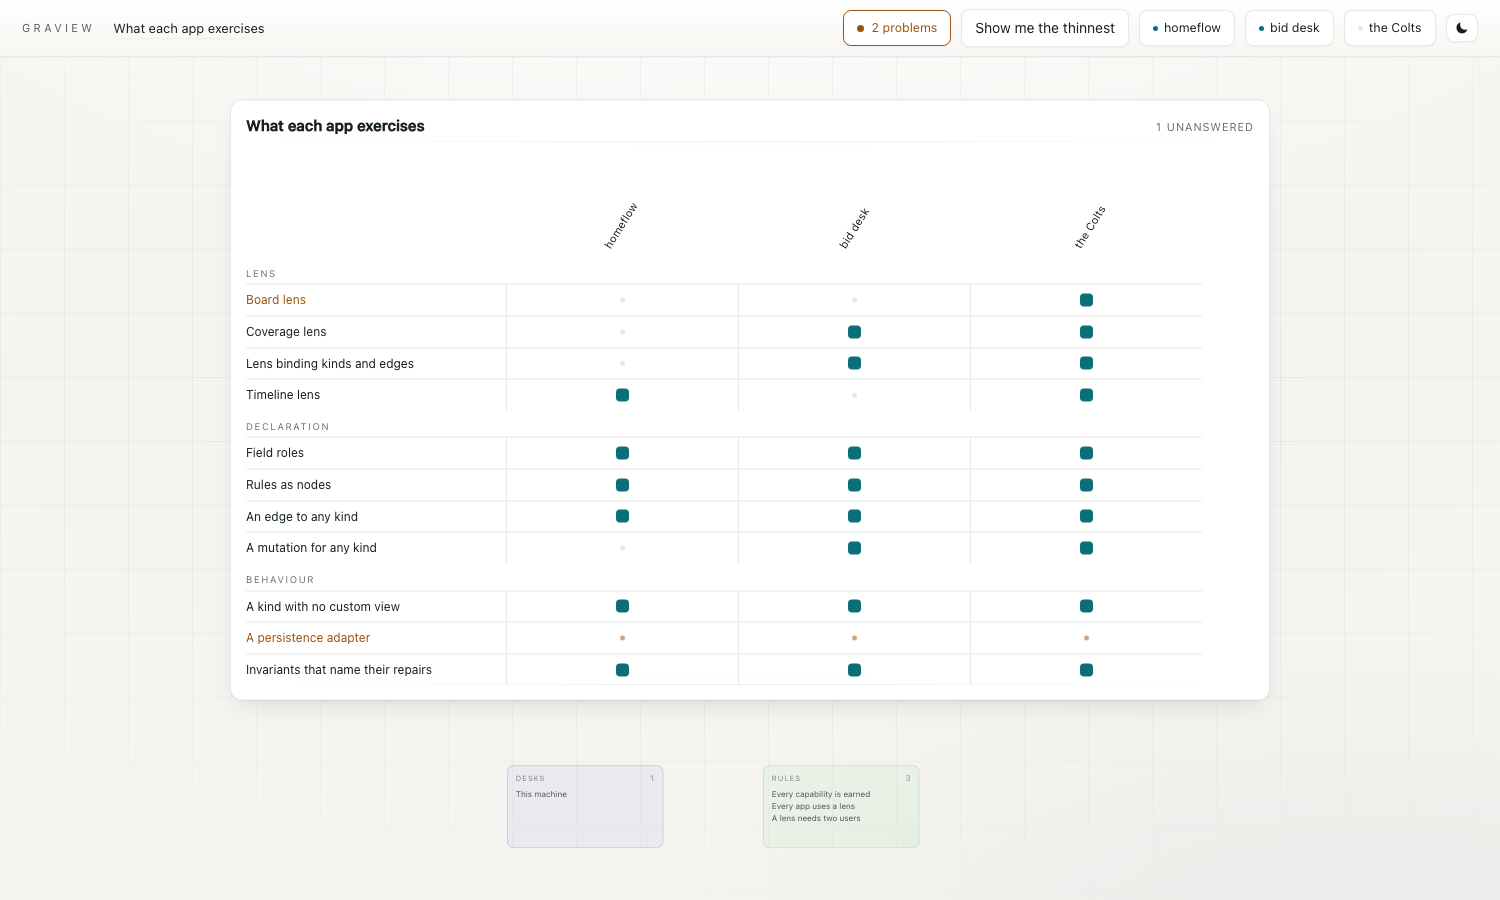
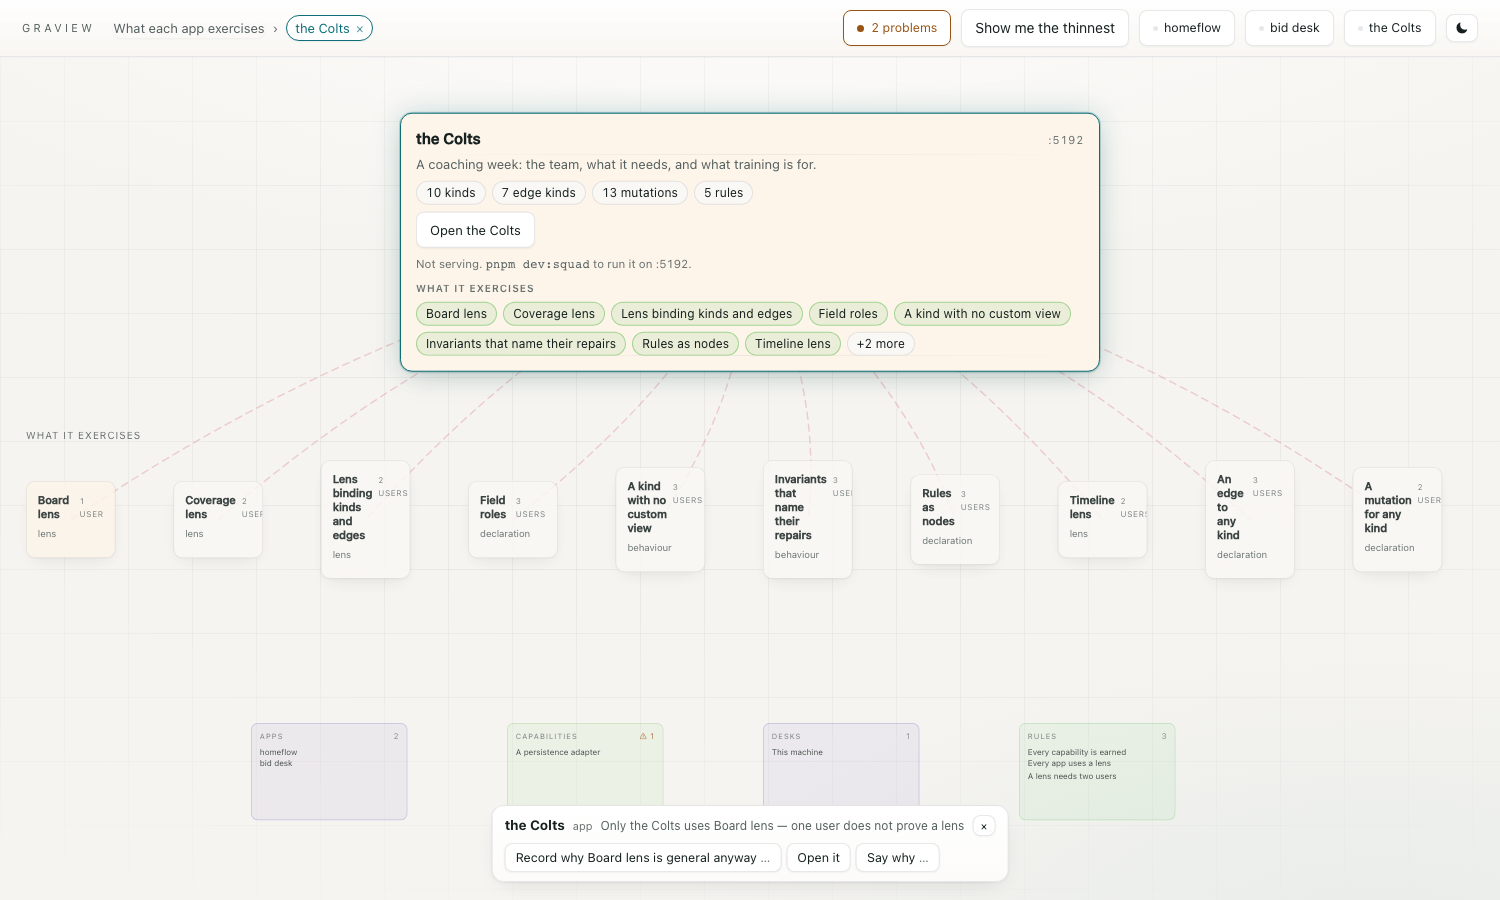
The contextual surface should be the smallest thing that carries the answer
Two pieces of furniture were doing more than their job.

THE INSPECTOR was a 340-pixel column parked over the bottom-right of the
scene at up to 56% of the height — a lot of building to put in front of the
thing you just clicked in order to tell you about it, and it sat on the
context plane's last cards while it did. It is a strip now: one line of what
this is and what is true about it, actions as inline controls rather than a
stack of full-width rows, four of them before a "+n more", and a lighter
shadow because it appears and disappears constantly and every selection
should not feel like opening a dialog. Bottom-centre rather than
bottom-right, because the right is where the context cards end and the middle
is the one place a scene built around a centred focus has to spare.

THE PROBLEMS POPOVER was bordered buttons inside a bordered panel — two boxes
doing one job, which made a two-item list look like a dialog — 360 wide,
hanging left over the trail, and closable only by pressing the thing that
opened it. It is 300 wide, rows separated by a hairline rather than wrapped in
cards, and it closes on click-away or Escape, which a popover sitting over
the scene has to do.

Nothing was lost: the same testids, the same derived content, the same
inline argument controls under the action that asked for them.

341 tests, four apps `graview check` clean, zero axe violations across both
schemes in all four, the household example's six criteria unchanged.
[…]

diff --git a/packages/primitives/src/workbench/index.tsx b/packages/primitives/src/workbench/index.tsx
@@ -9,7 +9,7 @@ import {
   useViolations,
 } from "@graview/react";
 import type { Affordance, OpenParameter, ToolCall } from "@graview/tools";
-import { useEffect, useMemo, useState, type ReactNode } from "react";
+import { useEffect, useMemo, useRef, useState, type ReactNode } from "react";
 import { Chip } from "../primitives/index.js";
 
 /**
@@ -151,9 +151,19 @@ export function nameOf(store: Store<AnySchema>, id: string): string {
 /* ---------------------------------------------------------------- inspector */
 
 /**
- * What is selected, what is true about it, and what can legally be done.
+ * What is selected, what is true about it, and what can legally be done —
+ * as a STRIP, not a panel.
  *
- * Everything in it is DERIVED. No menu is authored anywhere, in either app.
+ * It was a 340-pixel column parked over the bottom-right of the scene at up
+ * to 56% of the height, which is a lot of furniture to put in front of the
+ * thing you just clicked in order to tell you about it. A contextual surface
+ * should be the smallest thing that carries the answer: one line of what this
+ * is, one line of what is true about it, and the actions as inline controls
+ * rather than a stack of full-width rows.
+ *
+ * Bottom-centre rather than bottom-right, because the right is where the
+ * context plane's last cards sit and the middle is the one place a scene
+ * built around a centred focus has to spare.
  */
 export function Inspector() {
   const { store } = useGraview<AnySchema>();
@@ -161,6 +171,7 @@ export function Inspector() {
   const { affordances, observations } = useAffordances();
   const { apply, preview } = useApplyAffordance();
   const [pending, setPending] = useState<string | null>(null);
+  const [expanded, setExpanded] = useState(false);
 
   const kinds = [
     ...new Set(
@@ -171,66 +182,88 @@ export function Inspector() {
     ),
   ];
 
+  useEffect(() => {
+    setPending(null);
+    setExpanded(false);
+  }, [selection]);
+
   if (selection.length === 0) return null;
+
+  const INLINE = 4;
+  const shown = expanded ? affordances : affordances.slice(0, INLINE);
+  const hidden = affordances.length - shown.length;
+  const open = affordances.find((affordance) => affordance.id === pending);
 
   return (
     <aside
       aria-label="Inspector"
       style={{
         position: "fixed",
-        right: 20,
-        bottom: 20,
-        width: 340,
-        boxSizing: "border-box",
+        bottom: 18,
+        left: "50%",
+        transform: "translateX(-50%)",
         zIndex: 10,
-        maxHeight: "min(56vh, calc(100% - 40px))",
-        overflow: "auto",
+        maxWidth: "min(860px, calc(100vw - 40px))",
+        boxSizing: "border-box",
         display: "flex",
         flexDirection: "column",
-        gap: 12,
-        padding: 16,
-        borderRadius: 14,
+        gap: 7,
+        padding: "9px 12px",
+        borderRadius: 12,
         border: "1px solid var(--graview-edge)",
         background: "var(--graview-float)",
-        boxShadow: "var(--graview-lift-high)",
+        // Lighter than the rails: this appears and disappears constantly, and
+        // a heavy shadow made every selection feel like opening a dialog.
+        boxShadow: "var(--graview-lift-low)",
       }}
     >
-      <div style={{ display: "flex", alignItems: "baseline", gap: 8 }}>
-        <strong style={{ fontSize: 15 }}>
-          {selection.length === 1
-            ? nameOf(store, selection[0]!)
-            : `${selection.length} selected`}
+      <div style={{ display: "flex", alignItems: "baseline", gap: 8, minWidth: 0 }}>
+        <strong style={{ fontSize: 13.5, whiteSpace: "nowrap" }}>
+          {selection.length === 1 ? nameOf(store, selection[0]!) : `${selection.length} selected`}
         </strong>
         {kinds.length > 0 ? (
-          <span style={{ fontSize: 11.5, color: "var(--graview-ink-faint)" }}>
+          <span style={{ fontSize: 11, color: "var(--graview-ink-faint)", whiteSpace: "nowrap" }}>
             {kinds.join(" · ")}
           </span>
         ) : null}
+
+        {/* What is true about it, in one line. The rest is a count, not a
+            list — a strip that grows to five bullet points is a panel again. */}
+        {observations.length > 0 ? (
+          <span
+            data-testid="observations"
+            title={observations.map((observation) => observation.text).join("\n")}
+            style={{
+              minWidth: 0,
+              flex: "1 1 auto",
+              overflow: "hidden",
+              textOverflow: "ellipsis",
+              whiteSpace: "nowrap",
+              fontSize: 12,
+              color: "var(--graview-ink-muted)",
+            }}
+          >
+            {observations[0]!.text}
+            {observations.length > 1 ? (
+              <span style={{ color: "var(--graview-ink-faint)" }}>
+                {" "}
+                +{observations.length - 1}
+              </span>
+            ) : null}
+          </span>
+        ) : (
+          <span style={{ flex: "1 1 auto" }} />
+        )}
+
         <button
           type="button"
           onClick={clear}
-          style={{ marginLeft: "auto", padding: "2px 8px", fontSize: 11 }}
+          aria-label="Clear selection"
+          style={{ padding: "1px 7px", fontSize: 11, flex: "0 0 auto" }}
         >
-          clear
+          ×
         </button>
       </div>
-
-      {observations.length > 0 ? (
-        <ul
-          data-testid="observations"
-          style={{
-            margin: 0,
-            paddingLeft: 16,
-            fontSize: 12,
-            lineHeight: 1.5,
-            color: "var(--graview-ink-muted)",
-          }}
-        >
-          {observations.slice(0, 3).map((observation) => (
-            <li key={observation.id}>{observation.text}</li>
-          ))}
-        </ul>
-      ) : null}
 
       {affordances.length === 0 ? (
         /*
@@ -240,54 +273,81 @@ export function Inspector() {
          */
         <p
           data-testid="no-affordances"
-          style={{ margin: 0, fontSize: 12.5, lineHeight: 1.5, color: "var(--graview-ink-muted)" }}
+          style={{ margin: 0, fontSize: 12, lineHeight: 1.45, color: "var(--graview-ink-muted)" }}
         >
           Nothing can be done with {kinds.length === 1 ? `a ${kinds[0]}` : "this mix of kinds"} yet
           — no mutation declares {kinds.length === 1 ? "it" : "them"} as a subject.
         </p>
-      ) : null}
-
-      <ol
-        data-testid="affordances"
-        style={{ margin: 0, padding: 0, listStyle: "none", display: "grid", gap: 5 }}
-      >
-        {affordances.slice(0, 6).map((affordance) => (
-          <li key={affordance.id}>
-            <button
-              type="button"
-              data-affordance={affordance.id}
-              title={affordance.why}
-              style={{ width: "100%", textAlign: "left", padding: "7px 10px", fontSize: 13 }}
-              onClick={() => {
-                if (affordance.open.length > 0) {
-                  setPending(pending === affordance.id ? null : affordance.id);
-                  return;
-                }
-                preview(affordance);
-                apply(affordance);
-              }}
-            >
-              {affordance.label}
-              {affordance.open.length > 0 ? (
-                <span style={{ color: "var(--graview-ink-faint)" }}>
-                  {" "}
-                  · needs {affordance.open.map((parameter) => parameter.name).join(", ")}
-                </span>
-              ) : null}
-            </button>
-            {pending === affordance.id ? (
-              <AnswerArgs
-                affordance={affordance}
-                onApply={(args) => {
-                  apply(affordance, args);
-                  setPending(null);
+      ) : (
+        <ol
+          data-testid="affordances"
+          style={{
+            margin: 0,
+            padding: 0,
+            listStyle: "none",
+            display: "flex",
+            flexWrap: "wrap",
+            gap: 5,
+          }}
+        >
+          {shown.map((affordance) => (
+            <li key={affordance.id}>
+              <button
+                type="button"
+                data-affordance={affordance.id}
+                aria-pressed={pending === affordance.id}
+                title={affordance.why}
+                style={{
+                  padding: "4px 10px",
+                  fontSize: 12.5,
+                  borderRadius: 8,
+                  whiteSpace: "nowrap",
+                  ...(pending === affordance.id
+                    ? { borderColor: "var(--graview-accent)", color: "var(--graview-accent)" }
+                    : {}),
                 }}
-                onCancel={() => setPending(null)}
-              />
-            ) : null}
-          </li>
-        ))}
-      </ol>
+                onClick={() => {
+                  if (affordance.open.length > 0) {
+                    setPending(pending === affordance.id ? null : affordance.id);
+                    return;
+                  }
+                  preview(affordance);
+                  apply(affordance);
+                }}
+              >
+                {affordance.label}
+                {affordance.open.length > 0 ? (
+                  <span style={{ color: "var(--graview-ink-faint)" }}> …</span>
+                ) : null}
+              </button>
+            </li>
+          ))}
+          {hidden > 0 ? (
+            <li>
+              <button
+                type="button"
+                onClick={() => setExpanded(true)}
+                style={{ padding: "4px 10px", fontSize: 12.5, borderRadius: 8 }}
+              >
+                +{hidden} more
+              </button>
+            </li>
+          ) : null}
+        </ol>
+      )}
+
+      {/* The arguments appear in place, under the action that asked for them,
+          rather than turning the strip into a form. */}
+      {open ? (
+        <AnswerArgs
+          affordance={open}
+          onApply={(args) => {
+            apply(open, args);
+            setPending(null);
+          }}
+          onCancel={() => setPending(null)}
+        />
+      ) : null}
     </aside>
   );
 }
@@ -312,10 +372,34 @@ export function Standing({
   const violations = useViolations<AnySchema>();
   const { set } = useSelection();
   const [open, setOpen] = useState(false);
+  const anchor = useRef<HTMLDivElement | null>(null);
   const count = violations.length;
 
+  /*
+   * Click away or press Escape to close.
+   *
+   * A popover that only closes by pressing the thing that opened it is a
+   * popover you end up dragging around the screen, and this one sits over
+   * the scene.
+   */
+  useEffect(() => {
+    if (!open) return;
+    const away = (event: MouseEvent) => {
+      if (!anchor.current?.contains(event.target as Node)) setOpen(false);
+    };
+    const key = (event: KeyboardEvent) => {
+      if (event.key === "Escape") setOpen(false);
+    };
+    document.addEventListener("mousedown", away);
+    document.addEventListener("keydown", key);
+    return () => {
+      document.removeEventListener("mousedown", away);
+      document.removeEventListener("keydown", key);
+    };
+  }, [open]);
+
   return (
-    <div style={{ position: "relative" }}>
+    <div ref={anchor} style={{ position: "relative" }}>
       <button
         type="button"
         data-testid="standing"
@@ -352,23 +436,32 @@ export function Standing({
           data-testid="problems"
           style={{
             position: "absolute",
-            top: "calc(100% + 8px)",
+            top: "calc(100% + 6px)",
             right: 0,
             zIndex: 20,
-            width: 360,
+            width: 300,
+            maxHeight: "min(48vh, 420px)",
+            overflow: "auto",
             margin: 0,
-            padding: 8,
+            padding: 4,
             listStyle: "none",
             display: "grid",
-            gap: 4,
-            borderRadius: 12,
+            borderRadius: 10,
             border: "1px solid var(--graview-edge)",
             background: "var(--graview-float)",
             boxShadow: "var(--graview-lift-high)",
           }}
         >
           {violations.map((violation, index) => (
-            <li key={`${violation.invariant}:${index}`}>
+            <li
+              key={`${violation.invariant}:${index}`}
+              style={{
+                // A hairline between rows, not a card around each. Bordered
+                // buttons inside a bordered panel is two boxes doing one job,
+                // and it made a two-item list look like a dialog.
+                borderTop: index === 0 ? "none" : "1px solid var(--graview-edge)",
+              }}
+            >
               <button
                 type="button"
                 onClick={() => {
@@ -378,15 +471,19 @@ export function Standing({
                 style={{
                   width: "100%",
                   textAlign: "left",
-                  fontSize: 12.5,
-                  lineHeight: 1.45,
-                  padding: "7px 10px",
+                  fontSize: 12,
+                  lineHeight: 1.4,
+                  padding: "7px 8px",
+                  border: "1px solid transparent",
+                  background: "none",
+                  boxShadow: "none",
+                  borderRadius: 7,
                 }}
               >
                 <span style={{ display: "block", color: "var(--graview-ink)" }}>
                   {violation.message}
                 </span>
-                <span style={{ color: "var(--graview-ink-faint)", fontSize: 11.5 }}>
+                <span style={{ color: "var(--graview-ink-faint)", fontSize: 11 }}>
                   {violation.label}
                   {violation.repairs.length > 0
                     ? ` · ${violation.repairs.length} ${violation.repairs.length === 1 ? "way" : "ways"} to fix`
